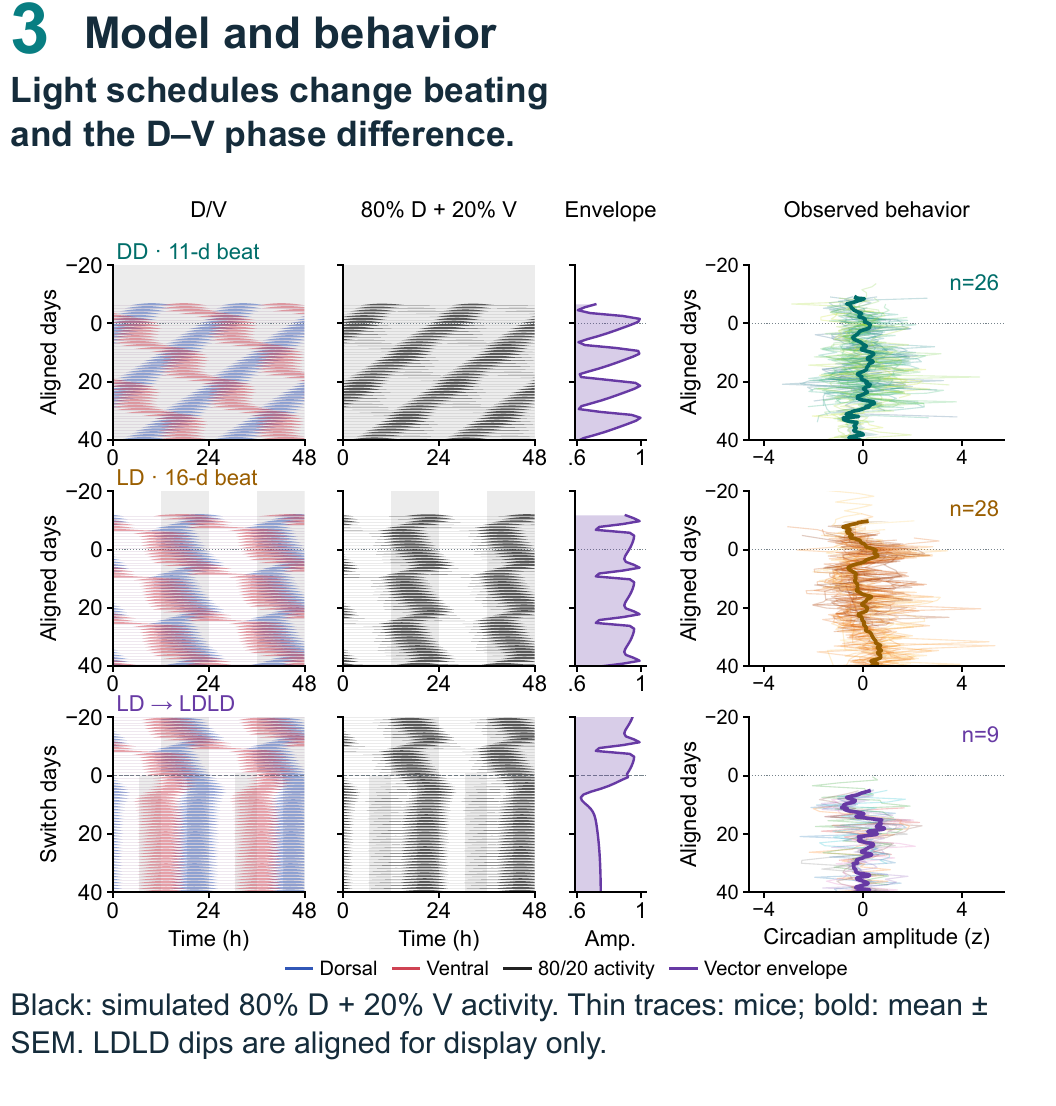
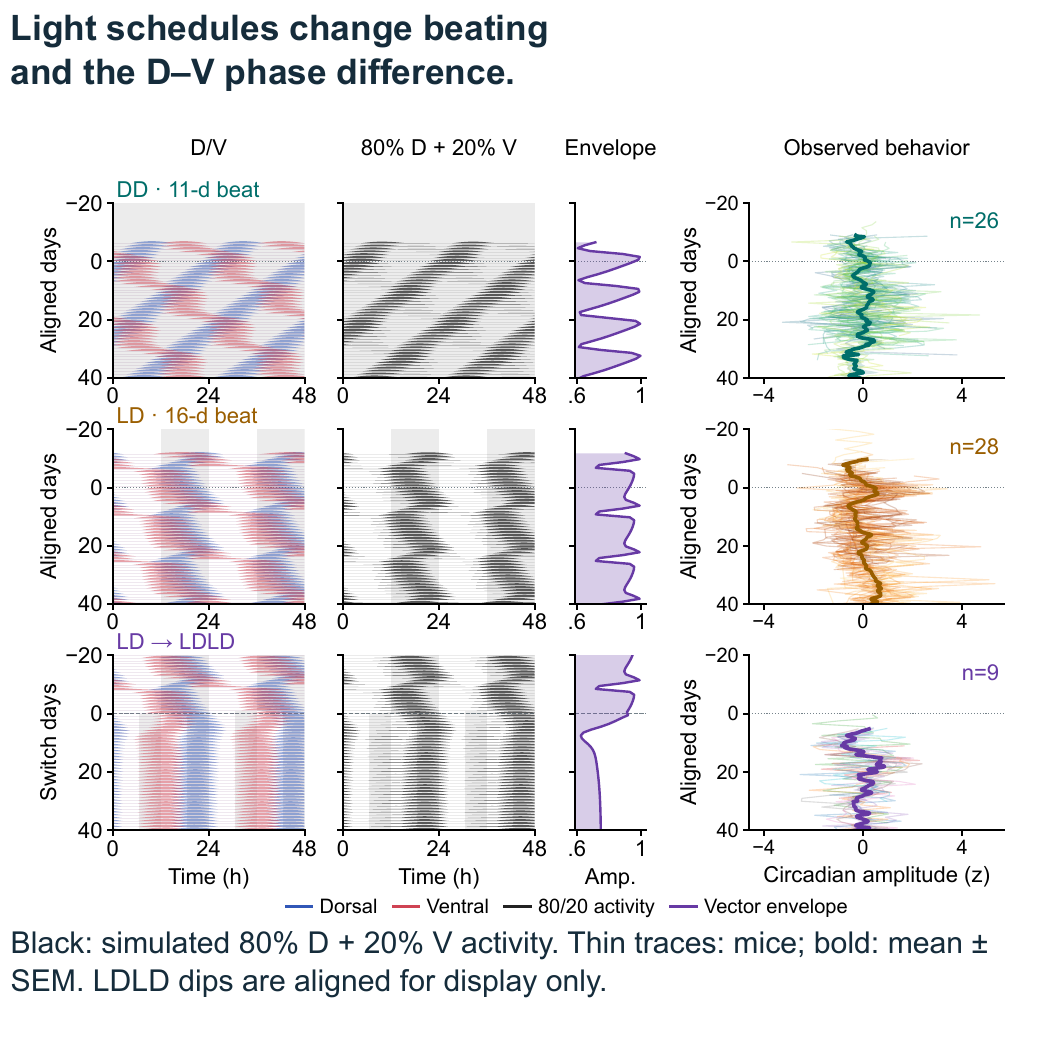
Halve poster figure and remove section heading

diff --git a/posters/sfn2026-truong/index.html b/posters/sfn2026-truong/index.html
@@ -10,7 +10,7 @@
 <link rel="stylesheet" href="../../assets/site.css">
 <script src="../../assets/site.js" defer></script>
 <style>
-.poster-figure { margin: 32px 0; max-width: 650px; }
+.poster-figure { margin: 32px 0; max-width: 325px; }
 .poster-figure img { display: block; width: 100%; height: auto; }
 .poster-figure figcaption { margin-top: 12px; color: var(--muted); font-size: .95rem; line-height: 1.6; }
 </style>
@@ -22,6 +22,6 @@
 <button class="menu-button" type="button" aria-expanded="false" aria-controls="navigation">Menu <span aria-hidden="true">☰</span></button>
 <nav id="navigation" class="site-nav" aria-label="Main navigation"><a href="../../index.html#research">Projects</a><a href="../../members.html">People</a><a href="../../publications.html">Publications</a><a href="../../lectures.html">Lectures</a><a href="../../resources.html" aria-current="page">Resources</a><a href="../../join.html">Why join?</a><a href="../../internal/" class="tools-link">Lab tools</a></nav>
 </div></header>
-<main id="main"><section class="page-heading wrap"><p class="eyebrow"><a href="../../resources.html">Resources</a> / <a href="../../posters/">Posters</a></p><h1>SfN poster 2026</h1><h2>Dorsal-ventral dissociation of suprachiasmatic nucleus oscillators reveals a potential mechanism for emergent multidien rhythms</h2><p>Vuong Hung Truong, Pishan Chang, Hugh David Piggins, Jihwan Myung</p><p>Neuroscience 2026 · PSTR068.23</p><figure class="poster-figure"><a href="SfN2026_Truong_PSTR068-23_20261102_layoutfix.pdf" aria-label="Open the full poster PDF"><img src="key-figure.png" width="1056" height="1106" alt="Model and behavior panel comparing dorsal and ventral oscillator phases, simulated activity, beat envelopes, and observed behavior in DD, LD, and LDLD schedules."></a><figcaption>Model and behavior: simulated dorsal–ventral oscillator dynamics and observed activity under DD, LD, and LDLD schedules. From the SfN 2026 poster.</figcaption></figure><p><a class="button" href="../../posters/sfn2026-truong/SfN2026_Truong_PSTR068-23_20261102_layoutfix.pdf">Open poster PDF</a></p><p><a href="../../posters/sfn2026-truong/SfN2026_Truong_PSTR068-23_20261102_layoutfix.pdf" download>Download poster (PDF, 9.9 MB)</a></p><p><img src="../../posters/sfn2026-truong/qr.png" alt="QR code for this permanent poster page" width="240" height="240"></p><p>Share this poster: <a href="https://braintimelab.github.io/posters/sfn2026-truong/">https://braintimelab.github.io/posters/sfn2026-truong/</a></p></section></main>
+<main id="main"><section class="page-heading wrap"><p class="eyebrow"><a href="../../resources.html">Resources</a> / <a href="../../posters/">Posters</a></p><h1>SfN poster 2026</h1><h2>Dorsal-ventral dissociation of suprachiasmatic nucleus oscillators reveals a potential mechanism for emergent multidien rhythms</h2><p>Vuong Hung Truong, Pishan Chang, Hugh David Piggins, Jihwan Myung</p><p>Neuroscience 2026 · PSTR068.23</p><figure class="poster-figure"><a href="SfN2026_Truong_PSTR068-23_20261102_layoutfix.pdf" aria-label="Open the full poster PDF"><img src="key-figure.png" width="1056" height="1044" alt="Model and behavior panel comparing dorsal and ventral oscillator phases, simulated activity, beat envelopes, and observed behavior in DD, LD, and LDLD schedules."></a><figcaption>Model and behavior: simulated dorsal–ventral oscillator dynamics and observed activity under DD, LD, and LDLD schedules. From the SfN 2026 poster.</figcaption></figure><p><a class="button" href="../../posters/sfn2026-truong/SfN2026_Truong_PSTR068-23_20261102_layoutfix.pdf">Open poster PDF</a></p><p><a href="../../posters/sfn2026-truong/SfN2026_Truong_PSTR068-23_20261102_layoutfix.pdf" download>Download poster (PDF, 9.9 MB)</a></p><p><img src="../../posters/sfn2026-truong/qr.png" alt="QR code for this permanent poster page" width="240" height="240"></p><p>Share this poster: <a href="https://braintimelab.github.io/posters/sfn2026-truong/">https://braintimelab.github.io/posters/sfn2026-truong/</a></p></section></main>
 <footer class="site-footer"><div class="footer-main wrap"><div><a class="footer-brand" href="../../index.html">Braintime Lab</a><p>Taipei Medical University</p><a href="mailto:jihwan@tmu.edu.tw">jihwan@tmu.edu.tw</a></div><div class="footer-links"><a href="mailto:jihwan@tmu.edu.tw">Contact PI</a><a href="../../join.html">Why join Braintime?</a><a href="http://gimbc.tmu.edu.tw">GIMBC</a><a href="https://twitter.com/braintimelab">Braintime on X</a><a href="../../internal/">Lab tools</a></div></div><div class="footer-note wrap"><a href="https://braintime.tmu.edu.tw/">Original TMU lab website</a><a href="#main">Back to top ↑</a></div></footer>
 </body></html>
